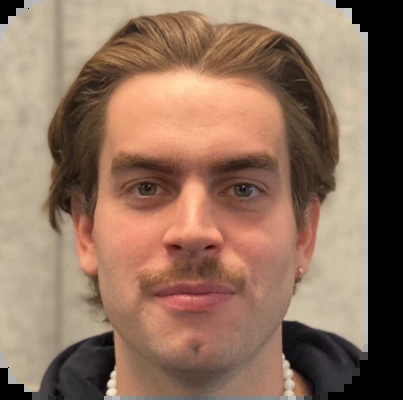
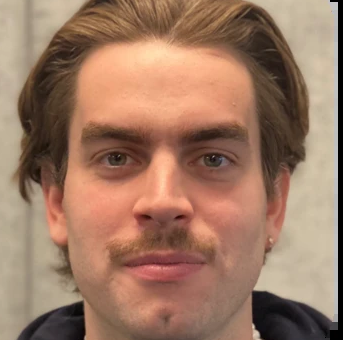
Improve team photos and add real LinkedIn links
Crop out corner artifacts from the original composite image and
apply consistent rounded thumbnails; link each team member to their
LinkedIn profile.

diff --git a/team.html b/team.html
@@ -33,22 +33,22 @@
         <div class="team-card">
           <img src="assets/team/jasper.png" alt="Jasper Glindemann">
           <h3>Jasper Glindemann</h3>
-          <a class="linkedin" href="#" target="_blank" rel="noopener">LinkedIn</a>
+          <a class="linkedin" href="https://www.linkedin.com/in/jasperglindemann/" target="_blank" rel="noopener">LinkedIn</a>
         </div>
         <div class="team-card">
           <img src="assets/team/esteban.png" alt="Esteban Gomez Lopez">
           <h3>Esteban Gomez Lopez</h3>
-          <a class="linkedin" href="#" target="_blank" rel="noopener">LinkedIn</a>
+          <a class="linkedin" href="https://www.linkedin.com/in/gomezlopez-esteban/" target="_blank" rel="noopener">LinkedIn</a>
         </div>
         <div class="team-card">
           <img src="assets/team/siavash.png" alt="Siavash Qodratipour">
           <h3>Siavash Qodratipour</h3>
-          <a class="linkedin" href="#" target="_blank" rel="noopener">LinkedIn</a>
+          <a class="linkedin" href="https://www.linkedin.com/in/siavash-qodratipour-4bb9501b3/" target="_blank" rel="noopener">LinkedIn</a>
         </div>
         <div class="team-card">
           <img src="assets/team/lennard.png" alt="Lennard Baur">
           <h3>Lennard Baur</h3>
-          <a class="linkedin" href="#" target="_blank" rel="noopener">LinkedIn</a>
+          <a class="linkedin" href="https://www.linkedin.com/in/lennard-baur/" target="_blank" rel="noopener">LinkedIn</a>
         </div>
       </div>
     </section>

diff --git a/style.css b/style.css
@@ -132,7 +132,10 @@ nav a:hover {
 
 .team-card img {
   width: 100%;
-  height: auto;
+  aspect-ratio: 1 / 1;
+  object-fit: cover;
+  border-radius: 16px;
+  background: #eee;
   display: block;
 }
 
